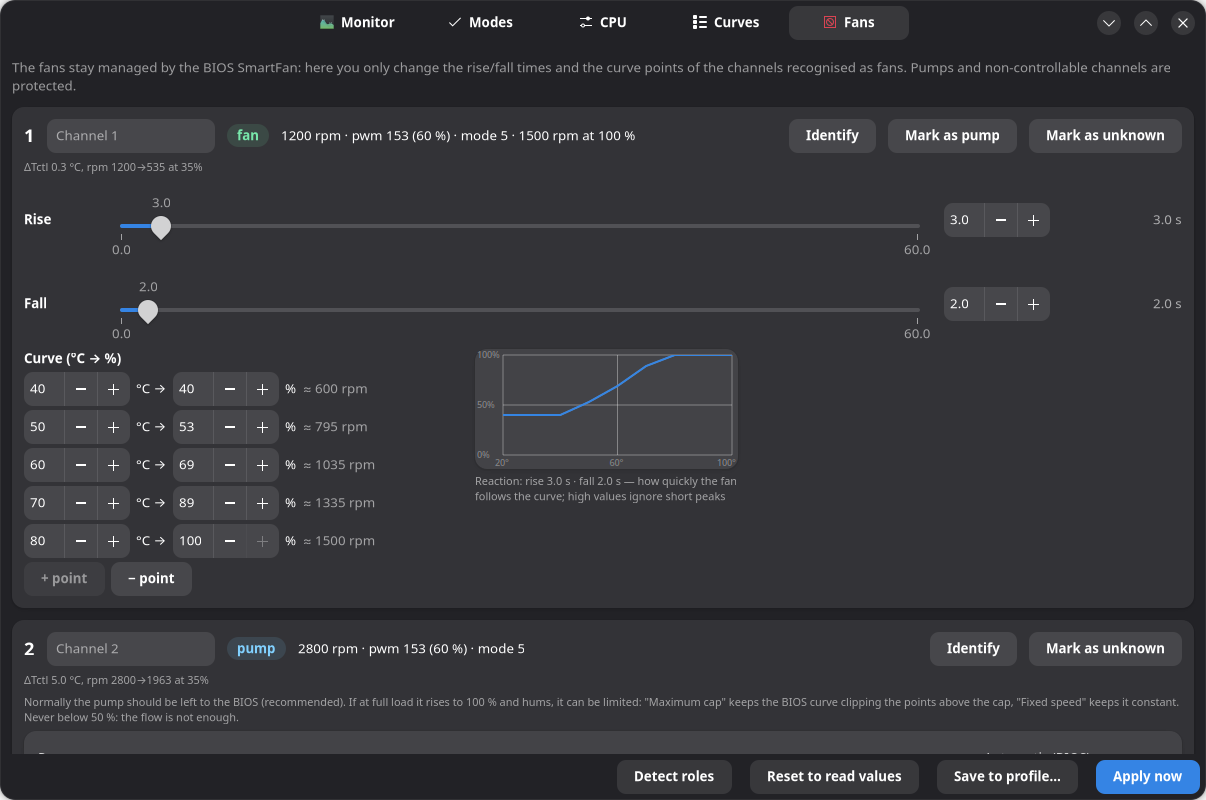
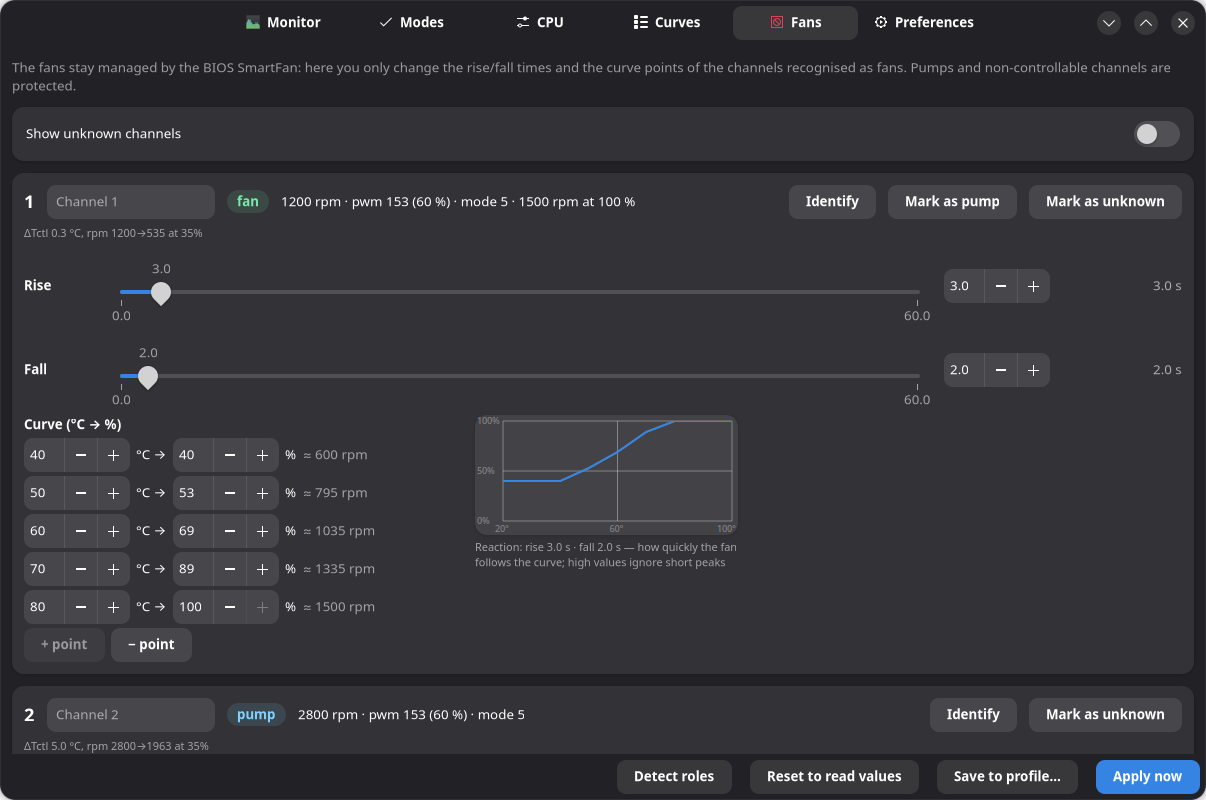
docs: screenshots regenerated (readable Monitor graph, aligned fan rows, new Preferences page)

diff --git a/CLAUDE.md b/CLAUDE.md
@@ -30,7 +30,8 @@ notification, reactivate, restart, clean boot, resume). Tag `v0.1.0` on `main`.
 protected; step 10 s/5 s on the fan channels removes the jumps on spikes (3 s of full load, rpm
 steady). The chip rounds the steps to ~200 ms. Tag `v0.2.0`.
 **Phase 3 (GUI) and phase 4 (calibrations)** written and used on hardware: `ryzen-control`
-(pages Monitor, Modes with Quiet/Boost presets and calibrated Eco/Auto, CPU, Curves, Fans;
+(pages Monitor, Modes with Quiet/Performance presets and calibrated Eco/Auto/Boost, CPU, Curves, Fans,
+Preferences;
 values coloured against the factory ones; resizable calibration window with progress, duration
 estimates, measured voltage per core and mV per step; immediate interruption). `autotune` in
 ryzenctl is a step machine (`start/step/status/abort/estimate`, state in
